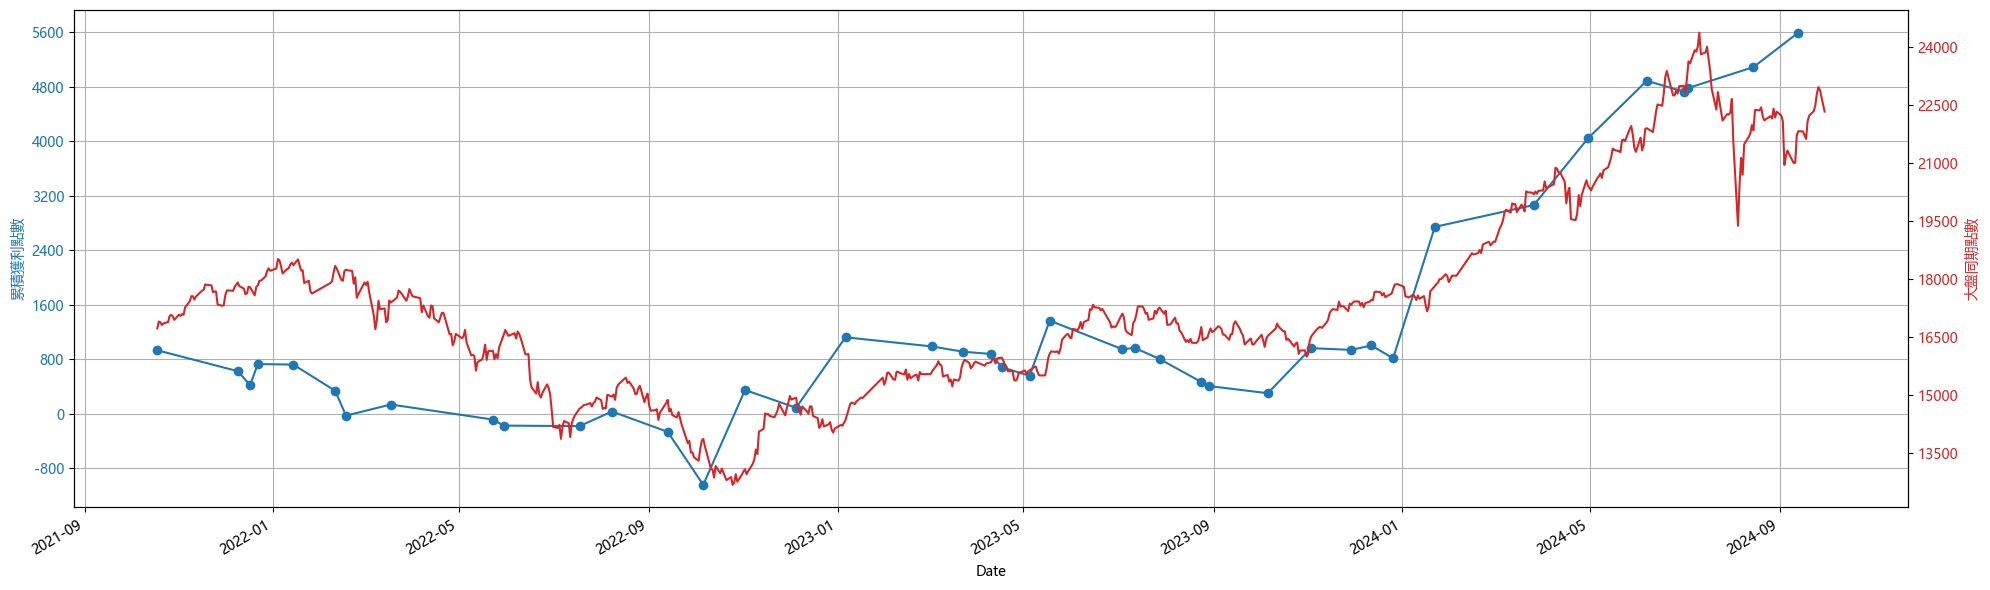
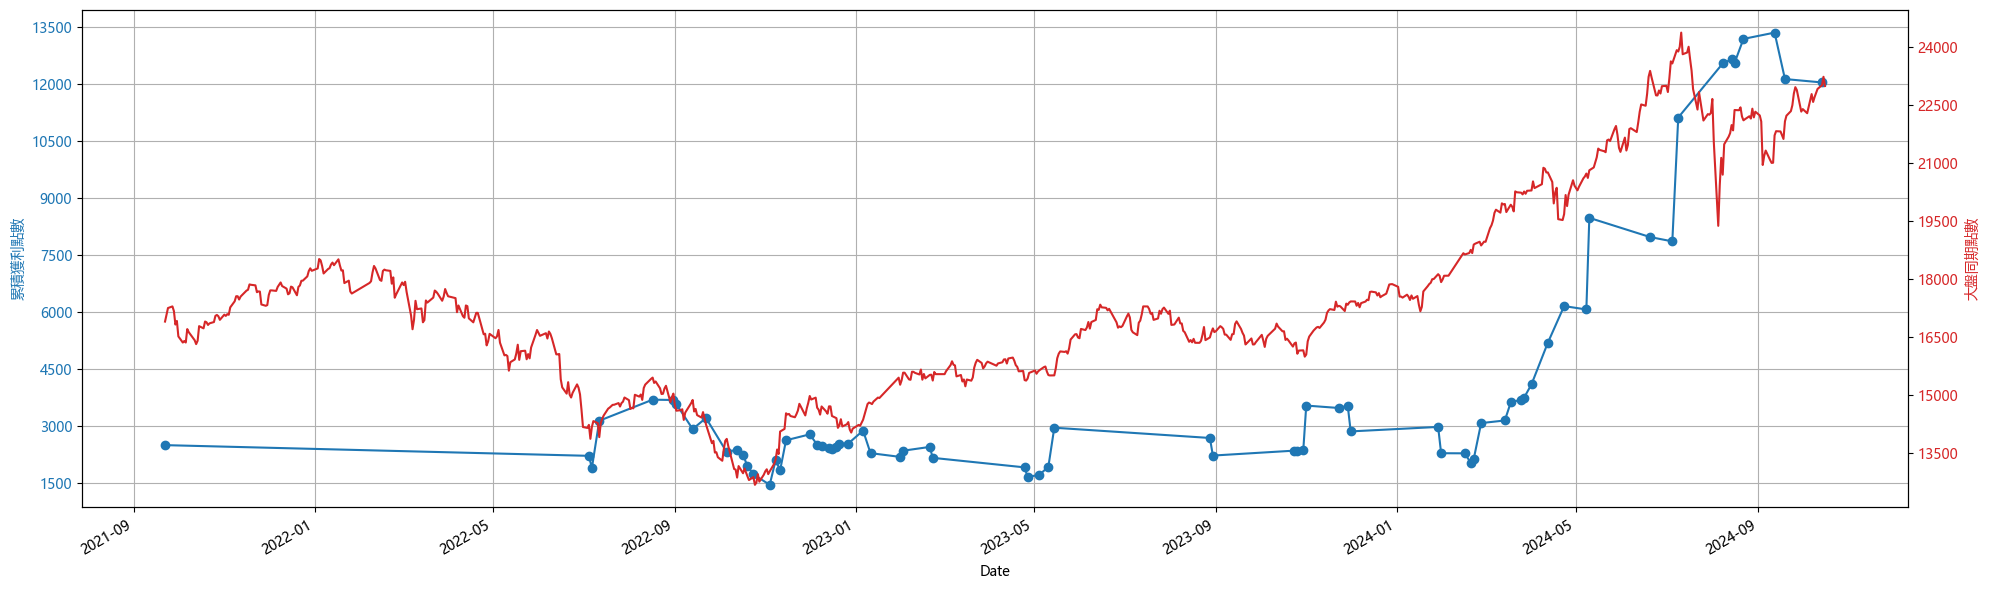
新增貼文

diff --git a/blog/post-3/index.html b/blog/post-3/index.html
@@ -154,120 +154,55 @@
 <!-- raw HTML omitted -->
 <h5 id="三-回測績效">(三) 回測績效</h5>
 <h6 id="1-跟單小外資">1. 跟單小外資</h6>
-<p>盤後籌碼呈現小外資買進，隔天開盤就買，小外資賣出，隔天開盤就賣</p>
+<p>盤後籌碼呈現小外資買進，隔天開盤就買，小外資賣出，隔天開盤就賣，做空亦然</p>
 <p>同時間點 :</p>
 <ul>
-<li>大盤累積獲利:8755</li>
-<li>外資小兒法累積:8895</li>
-<li>進出次數:37</li>
-<li>第一次買進時間:2022-07-05</li>
+<li>大盤累積獲利:6086</li>
+<li>策略一累積:12045</li>
+<li>進出次數:71</li>
+<li>第一次買進時間:2021-09-22</li>
 <li>最後一次賣出時間:2024-10-16</li>
 </ul>
-<p>比較同期大盤，進進出出37次但只贏大盤140點</p>
+<p>比較同期大盤，進進出出共71次，同期贏大盤5959點，幾乎贏一倍</p>
 <p><img src="../../images/post/post-3-3.png" alt="image"></p>
-<!-- raw HTML omitted -->
-<!-- raw HTML omitted -->
-<h5 id="list">List</h5>
-<ol>
-<li>List item</li>
-<li>List item</li>
-<li>List item</li>
-<li>List item</li>
-<li>List item</li>
-</ol>
-<h5 id="unordered-list">Unordered List</h5>
+<h6 id="2-只看10日線">2. 只看10日線</h6>
+<p>當天收盤跌破10日線就空，收盤站上回補，收盤如果站上10日線，隔天開盤買，跌破收盤賣掉</p>
+<p>同時間點 :</p>
 <ul>
-<li>List item</li>
-<li>List item</li>
-<li>List item</li>
-<li>List item</li>
-<li>List item</li>
+<li>大盤累積獲利:5404</li>
+<li>策略二累積:7610</li>
+<li>進出次數:125</li>
+<li>第一次買進時間:2021-09-17</li>
+<li>最後一次賣出時間:2024-10-09</li>
 </ul>
+<p>比較同期大盤，進進出出共125次，同期贏大盤2206點，表現沒有用小外資當指標來的好。</p>
+<p><img src="../../images/post/post-3-4.png" alt="image"></p>
+<h6 id="3-只看10日線改良">3. 只看10日線(改良)</h6>
+<p>與第2點策略相同，但台指期在季線之上(60日)不做空，只做多</p>
+<p>同時間點 :</p>
+<ul>
+<li>大盤累積獲利:5405</li>
+<li>策略三累積:9337</li>
+<li>進出次數:91</li>
+<li>第一次買進時間:2021-09-28</li>
+<li>最後一次賣出時間:2024-10-08</li>
+</ul>
+<p>比較同期大盤，進進出出共91次，同期贏大盤3932點，顯示季線之上部做空是比較好的選擇，但表現仍然沒有比用小外資當指標來的好。</p>
+<p><img src="../../images/post/post-3-5.png" alt="image"></p>
+<h6 id="4-小外資改良版10日線">4. 小外資改良版10日線</h6>
+<p>延伸策略3的多空點位，並且增加小外資判斷方向。</p>
+<p>判斷買進時查看當日的小外資是否為正，隔日開盤買，賣出時跌破十日線當天判斷前日小外資是否為負</p>
+<p>判斷賣出時查看前日的小外資是否為負，尾盤跌破十日線空，回補則看尾盤有沒有站回10日線且前一日小外資翻正。</p>
+<ul>
+<li>大盤累積獲利:4701</li>
+<li>策略四累積:13569</li>
+<li>進出次數:25</li>
+<li>第一次買進時間:2022-01-26</li>
+<li>最後一次賣出時間:2024-09-30</li>
+</ul>
+<p>比較同期大盤，進出筆數大幅縮短到25次，且同期贏大盤9049點，顯示小外資和10日線兩個重要的濾網可以帶來最多的報酬</p>
+<p><img src="../../images/post/post-3-6.png" alt="image"></p>
 <!-- raw HTML omitted -->
-<h5 id="code-and-syntax-highlighting">Code and Syntax Highlighting</h5>
-<p>Inline <code>code</code> has <code>back-ticks around</code> it.</p>
-<div class="highlight"><pre tabindex="0" style="color:#f8f8f2;background-color:#272822;-moz-tab-size:4;-o-tab-size:4;tab-size:4;"><code class="language-javascript" data-lang="javascript"><span style="display:flex;"><span><span style="color:#66d9ef">var</span> <span style="color:#a6e22e">s</span> <span style="color:#f92672">=</span> <span style="color:#e6db74">&#34;JavaScript syntax highlighting&#34;</span>;
-</span></span><span style="display:flex;"><span><span style="color:#a6e22e">alert</span>(<span style="color:#a6e22e">s</span>);
-</span></span></code></pre></div><div class="highlight"><pre tabindex="0" style="color:#f8f8f2;background-color:#272822;-moz-tab-size:4;-o-tab-size:4;tab-size:4;"><code class="language-python" data-lang="python"><span style="display:flex;"><span>s <span style="color:#f92672">=</span> <span style="color:#e6db74">&#34;Python syntax highlighting&#34;</span>
-</span></span><span style="display:flex;"><span>print s
-</span></span></code></pre></div><pre tabindex="0"><code>No language indicated, so no syntax highlighting.
-But let&#39;s throw in a &lt;b&gt;tag&lt;/b&gt;.
-</code></pre><!-- raw HTML omitted -->
-<h5 id="blockquote">Blockquote</h5>
-<blockquote>
-<p>This is a blockquote example.</p>
-</blockquote>
-<!-- raw HTML omitted -->
-<h5 id="inline-html">Inline HTML</h5>
-<p>You can also use raw HTML in your Markdown, and it&rsquo;ll mostly work pretty well.</p>
-<!-- raw HTML omitted -->
-<!-- raw HTML omitted -->
-<!-- raw HTML omitted -->
-<h5 id="tables">Tables</h5>
-<p>Colons can be used to align columns.</p>
-<table>
-  <thead>
-      <tr>
-          <th>Tables</th>
-          <th style="text-align: center">Are</th>
-          <th style="text-align: right">Cool</th>
-      </tr>
-  </thead>
-  <tbody>
-      <tr>
-          <td>col 3 is</td>
-          <td style="text-align: center">right-aligned</td>
-          <td style="text-align: right">$1600</td>
-      </tr>
-      <tr>
-          <td>col 2 is</td>
-          <td style="text-align: center">centered</td>
-          <td style="text-align: right">$12</td>
-      </tr>
-      <tr>
-          <td>zebra stripes</td>
-          <td style="text-align: center">are neat</td>
-          <td style="text-align: right">$1</td>
-      </tr>
-  </tbody>
-</table>
-<p>There must be at least 3 dashes separating each header cell.
-The outer pipes (|) are optional, and you don&rsquo;t need to make the
-raw Markdown line up prettily. You can also use inline Markdown.</p>
-<table>
-  <thead>
-      <tr>
-          <th>Markdown</th>
-          <th>Less</th>
-          <th>Pretty</th>
-      </tr>
-  </thead>
-  <tbody>
-      <tr>
-          <td><em>Still</em></td>
-          <td><code>renders</code></td>
-          <td><strong>nicely</strong></td>
-      </tr>
-      <tr>
-          <td>1</td>
-          <td>2</td>
-          <td>3</td>
-      </tr>
-  </tbody>
-</table>
-<!-- raw HTML omitted -->
-<h5 id="image">Image</h5>
-<p><img src="../../images/post/post-1.jpg" alt="image"></p>
-<!-- raw HTML omitted -->
-<h5 id="youtube-video">Youtube video</h5>
-
-
-    
-    <div style="position: relative; padding-bottom: 56.25%; height: 0; overflow: hidden;">
-      <iframe allow="accelerometer; autoplay; clipboard-write; encrypted-media; gyroscope; picture-in-picture; web-share" allowfullscreen="allowfullscreen" loading="eager" referrerpolicy="strict-origin-when-cross-origin" src="https://www.youtube.com/embed/C0DPdy98e4c?autoplay=0&controls=1&end=0&loop=0&mute=0&start=0" style="position: absolute; top: 0; left: 0; width: 100%; height: 100%; border:0;" title="YouTube video"
-      ></iframe>
-    </div>
-
 
         </div>
 
